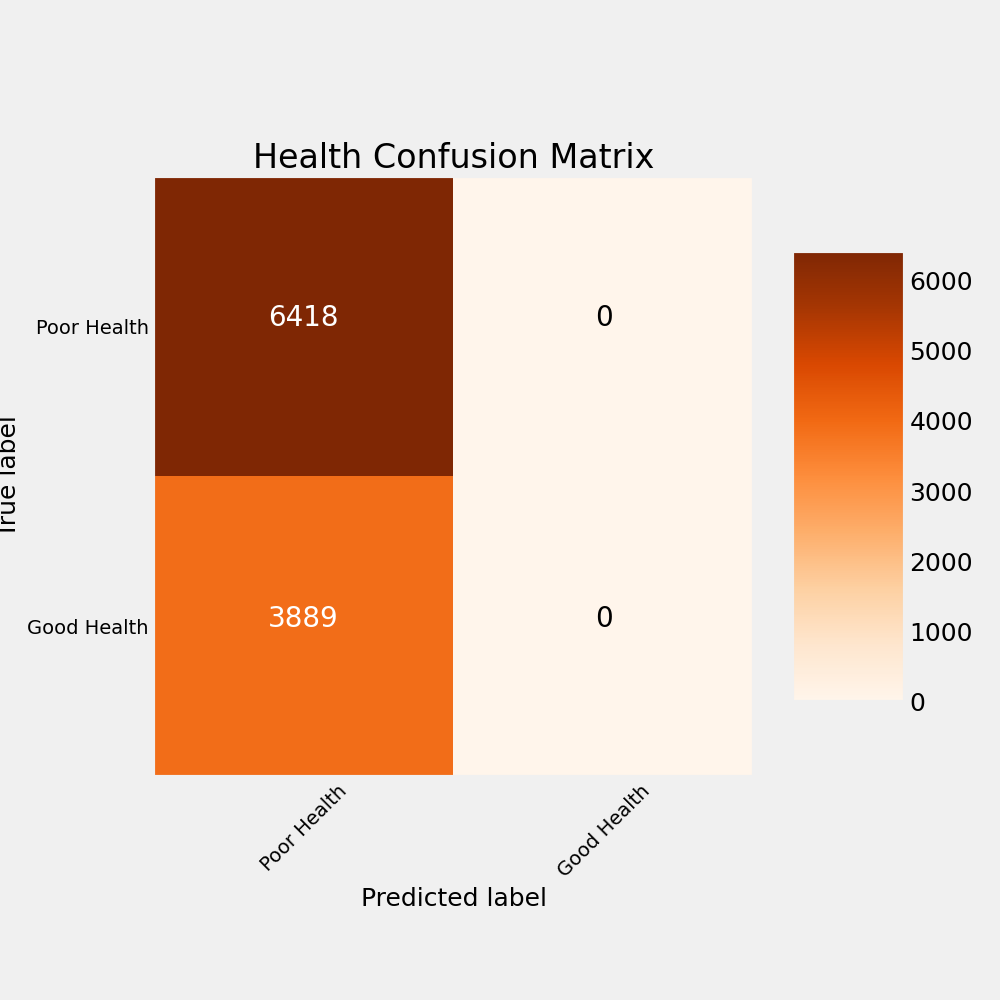
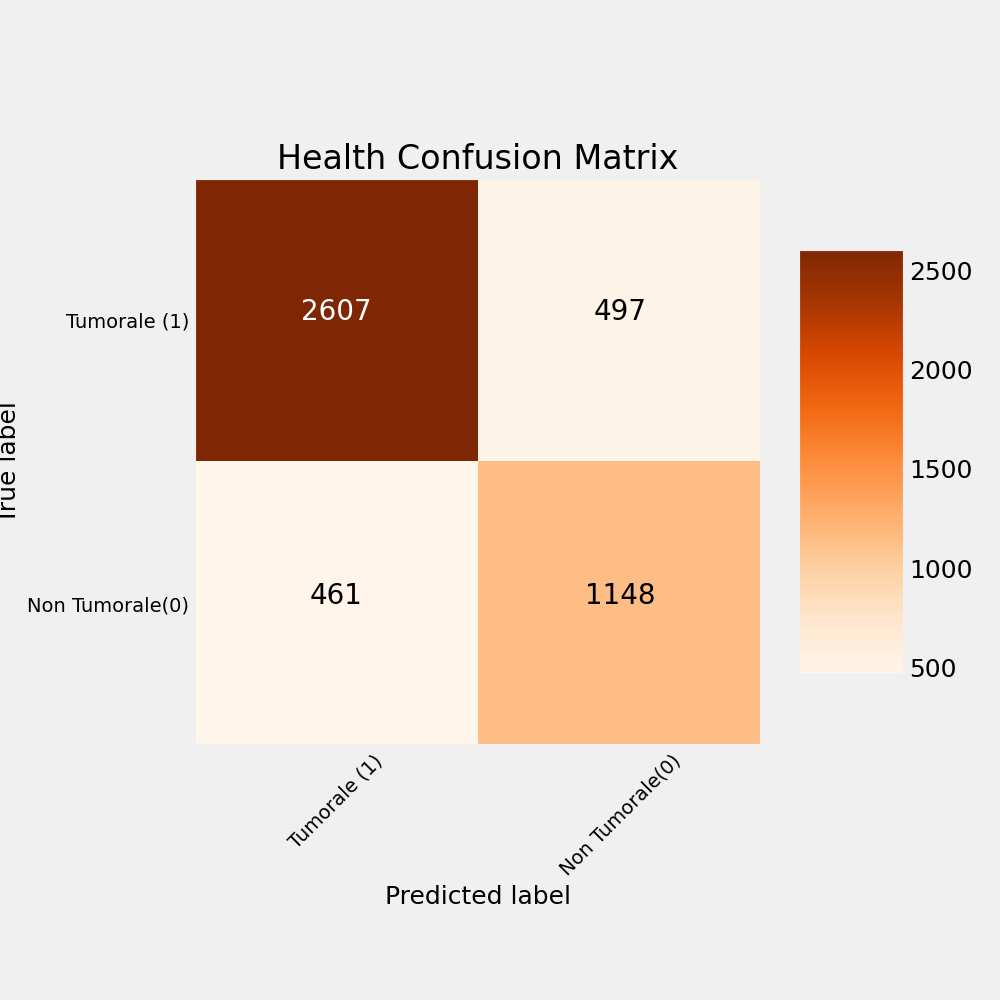
misurazioni effettuate il: 09-08-21 riportano le accuratezze riguardanti due modelli di ML J48 e Random Forest

diff --git a/classificator_mainBis.py b/classificator_mainBis.py
@@ -11,6 +11,7 @@ import sklearn
 from sklearn import metrics
 from sklearn.tree import DecisionTreeClassifier
 from sklearn.model_selection import train_test_split
+from  sklearn.linear_model import  LogisticRegression
 from sklearn.preprocessing import LabelEncoder, MinMaxScaler, StandardScaler
 from generate_window import generate
 
@@ -22,13 +23,13 @@ def main():
 
     pickle_dir = "./generated_pickle_files_cytoplasm"
     pickle_files = [pickle_dir]
-    size = str(10)
-    overlap =str(0.75)
+    size = 2
+    overlap = 0.75
     prima = True
     #legge i dati per tutte chiavi dello specifico pickle
     files = []
     for dataset in pickle_files:
-        dataset_files = glob.glob(dataset + '/dataset_raman_segmented-window-size-'+size+'_'+'overlap-'+overlap+'.pickle')
+        dataset_files = glob.glob(dataset + '/dataset_raman_segmented-window-size-'+str(size)+'_'+'overlap-'+str(overlap)+'.pickle')
         for x in dataset_files:
             files.append(x)
     # sorted genera una lista ordinata di item partendo dall'oggetto
@@ -42,35 +43,72 @@ def main():
                 prima = False
                 x_tot =pi_dict[k]['X']
                 y_tot = pi_dict[k]['y']
-                #x_test = pi_dict[k]['X_test']
-                #y_test = pi_dict[k]['y_test']
+                ### frequenze aggiunte ad ogni record ([:, 0] permette di prendere solo la prima colonna)
+                f_totA = pi_dict[k]['freq'][:, 0]
+                f_totB = pi_dict[k]['freq'][:, size-1]
+                #x_tot = np.append(f_tot, x_tot, axis=0)
+                x_tot =np.insert(x_tot, 0, f_totA, axis=1) #viene inserita la frequenza come prima colonna delle x_tot
+                x_tot = np.insert(x_tot, 1, f_totB,
+                                  axis=1)  # viene inserita la frequenza come prima colonna delle x_tot
+
             else :
                 xx_tot = pi_dict[k]['X']
+                #vengono inserite le frequenze di base all'interno di x_tot
+                f_totA = pi_dict[k]['freq'][:, 0]
+                f_totB = pi_dict[k]['freq'][:, size - 1]
+                #xx_tot = np.append(xx_tot, f_tot, axis=0)
+                xx_tot = np.insert(xx_tot, 0, f_totA, axis=1)
+                xx_tot = np.insert(xx_tot, 1, f_totB, axis=1)
                 x_tot = np.vstack([x_tot, xx_tot])
                 yy_tot = pi_dict[k]['y']
                 y_tot = np.concatenate([y_tot, yy_tot], axis =None)
-                #xx_test = pi_dict[k]['X_test']
-                #x_test = np.vstack([x_test, xx_test])
-                #yy_test = pi_dict[k]['y_test']
-                #y_test = np.concatenate([y_test, yy_test], axis = None)
+
+
 
         infile.close()
         x_train, x_test, y_train, y_test = train_test_split(x_tot, y_tot,
                                                             test_size=0.3, shuffle=True, random_state= 36)
 
 
+    # Spot Check Algorithms
+    from sklearn.discriminant_analysis import LinearDiscriminantAnalysis
+    from sklearn.neighbors import KNeighborsClassifier
+    from sklearn.naive_bayes import GaussianNB
+    from sklearn.svm import SVC
+    from sklearn.model_selection import StratifiedKFold
+    from sklearn.model_selection import cross_val_score
+    models = []
+    models.append(('LR', LogisticRegression(solver='liblinear', multi_class='ovr')))
+    models.append(('LDA', LinearDiscriminantAnalysis()))
+    models.append(('KNN', KNeighborsClassifier()))#prima non funzionava
+    models.append(('CART', DecisionTreeClassifier()))
+    models.append(('NB', GaussianNB()))
+    models.append(('SVM', SVC(gamma='auto'))) #prima non funzionava
+    # evaluate each model in turn
+    results = []
+    names = []
+    for name, model in models:
+        kfold = StratifiedKFold(n_splits=10, random_state=1, shuffle=True)
+        cv_results = cross_val_score(model, x_train, y_train, cv=kfold, scoring='accuracy')
+        results.append(cv_results)
+        names.append(name)
+        print('%s: %f (%f)' % (name, cv_results.mean(), cv_results.std()))
+    #fine prova
     # Create Decision Tree classifer object
     #DecisionTreeClassifier =sklearn.tree
-    clf = DecisionTreeClassifier(criterion="entropy", max_depth=100)
+    clf = DecisionTreeClassifier(criterion="entropy", max_depth=1000)
 
     # Train Decision Tree Classifer
     clf = clf.fit(x_train, y_train)
 
     # Predict the response for test dataset
     y_pred = clf.predict(x_test)
-
+    score = clf.score(x_test, y_pred)
     # Metriche per J48
-    print("Accuracy per J48:", metrics.accuracy_score(y_test, y_pred))
+
+    print("Accuracy per J$48:", metrics.accuracy_score(y_test, y_pred))
+
+
     ###Metriche###
     # Training predictions (to demonstrate overfitting)
     train_rf_predictions = clf.predict(x_train)
@@ -145,6 +183,7 @@ def main():
         Normalization can be applied by setting `normalize=True`.
         Source: http://scikit-learn.org/stable/auto_examples/model_selection/plot_confusion_matrix.html
         """
+
         if normalize:
             cm = cm.astype('float') / cm.sum(axis=1)[:, np.newaxis]
             print("Normalized confusion matrix")
@@ -178,14 +217,14 @@ def main():
 
     # Confusion matrix
     cm = confusion_matrix(y_test, y_pred)
-    plot_confusion_matrix(cm, classes=['Poor Health', 'Good Health'],
+    plot_confusion_matrix(cm, classes=['Tumorale (1)', 'Non Tumorale(0)'],
                           title='Health Confusion Matrix')
     plt.savefig('cm.png')
 
     #modello random forest feature  = x labels =y
     # Import the model we are using
     from sklearn.ensemble import RandomForestClassifier  # Instantiate model with 1000 decision trees
-    rf = RandomForestClassifier( random_state=42)  # Train the model on training data
+    rf = RandomForestClassifier(max_depth=3 ,n_estimators= 100)  # Train the model on training data
     rf.fit(x_train, y_train)
     # Use the forest's predict method on the test data
     predictions = rf.predict(x_test)  # Calculate the absolute errors

diff --git a/segmenter_mainBis.py b/segmenter_mainBis.py
@@ -15,7 +15,7 @@ import pandas as pd
 # un unico main che si occupa della segmentazione dei dataset in finestre .pickle
 # -global parameters---------------------------------------------
 #strnome specifica il nome del dataset e del .pickle
-strnome ='cytoplasm'
+strnome ='nucleusHW'
 path_dataset = './dataset_raman_csv_'+strnome
 pickle_dir = "./generated_pickle_files_"+strnome
 
@@ -159,18 +159,25 @@ def main():
 
     segmented_dataset = dict()
     for (label_data, segmenter) in segmenters:
-        spectrum = dataset_raman.get(k).get('data')
+        #spectrum = dataset_raman.get(k).get('data')
         for k in dataset_raman.keys():
+            spectrum = dataset_raman.get(k).get('data')#originariamente stava fuori
             spectrum = spectrum.reshape(1, -1)
             labels = numpy.array(len(spectrum) * [dataset_raman.get(k).get('tumoral')])
             labels = labels.reshape(1, -1)
+            #prova inserimento frequenze
+            freq = numpy.array(len(spectrum) * [dataset_raman.get(k).get('freq')])
+            #freq = freq.reshape(1, -1)
+            segmenter.fit(freq, spectrum)
+            segments_and_freq =segmenter.transform(freq, spectrum)
+            #fine
             segmenter.fit(spectrum, labels)
             segments_and_lables = segmenter.transform(spectrum, labels)
-            print("Windows layout shape:{0},{1}".format(segments_and_lables[0].shape, segments_and_lables[1].shape))
+            print("Windows layout shape:{0},{1},{2}".format(segments_and_lables[0].shape, segments_and_lables[1].shape,segments_and_freq[1].shape))
             #X_train, X_test, y_train, y_test = train_test_split(segments_and_lables[0], segments_and_lables[1], test_size=testset_ratio, shuffle=True)
 
             segmented_dataset.update(
-                {k: {'X': segments_and_lables[0], 'y': segments_and_lables[1],
+                {k: {'X': segments_and_lables[0], 'y': segments_and_lables[1], 'freq': segments_and_freq[0],
                      'segmenter_params': label_data,
                      'original_data': dataset_raman,
                      'segments_data': segments_and_lables[0], 'segments_labels': segments_and_lables[1]
